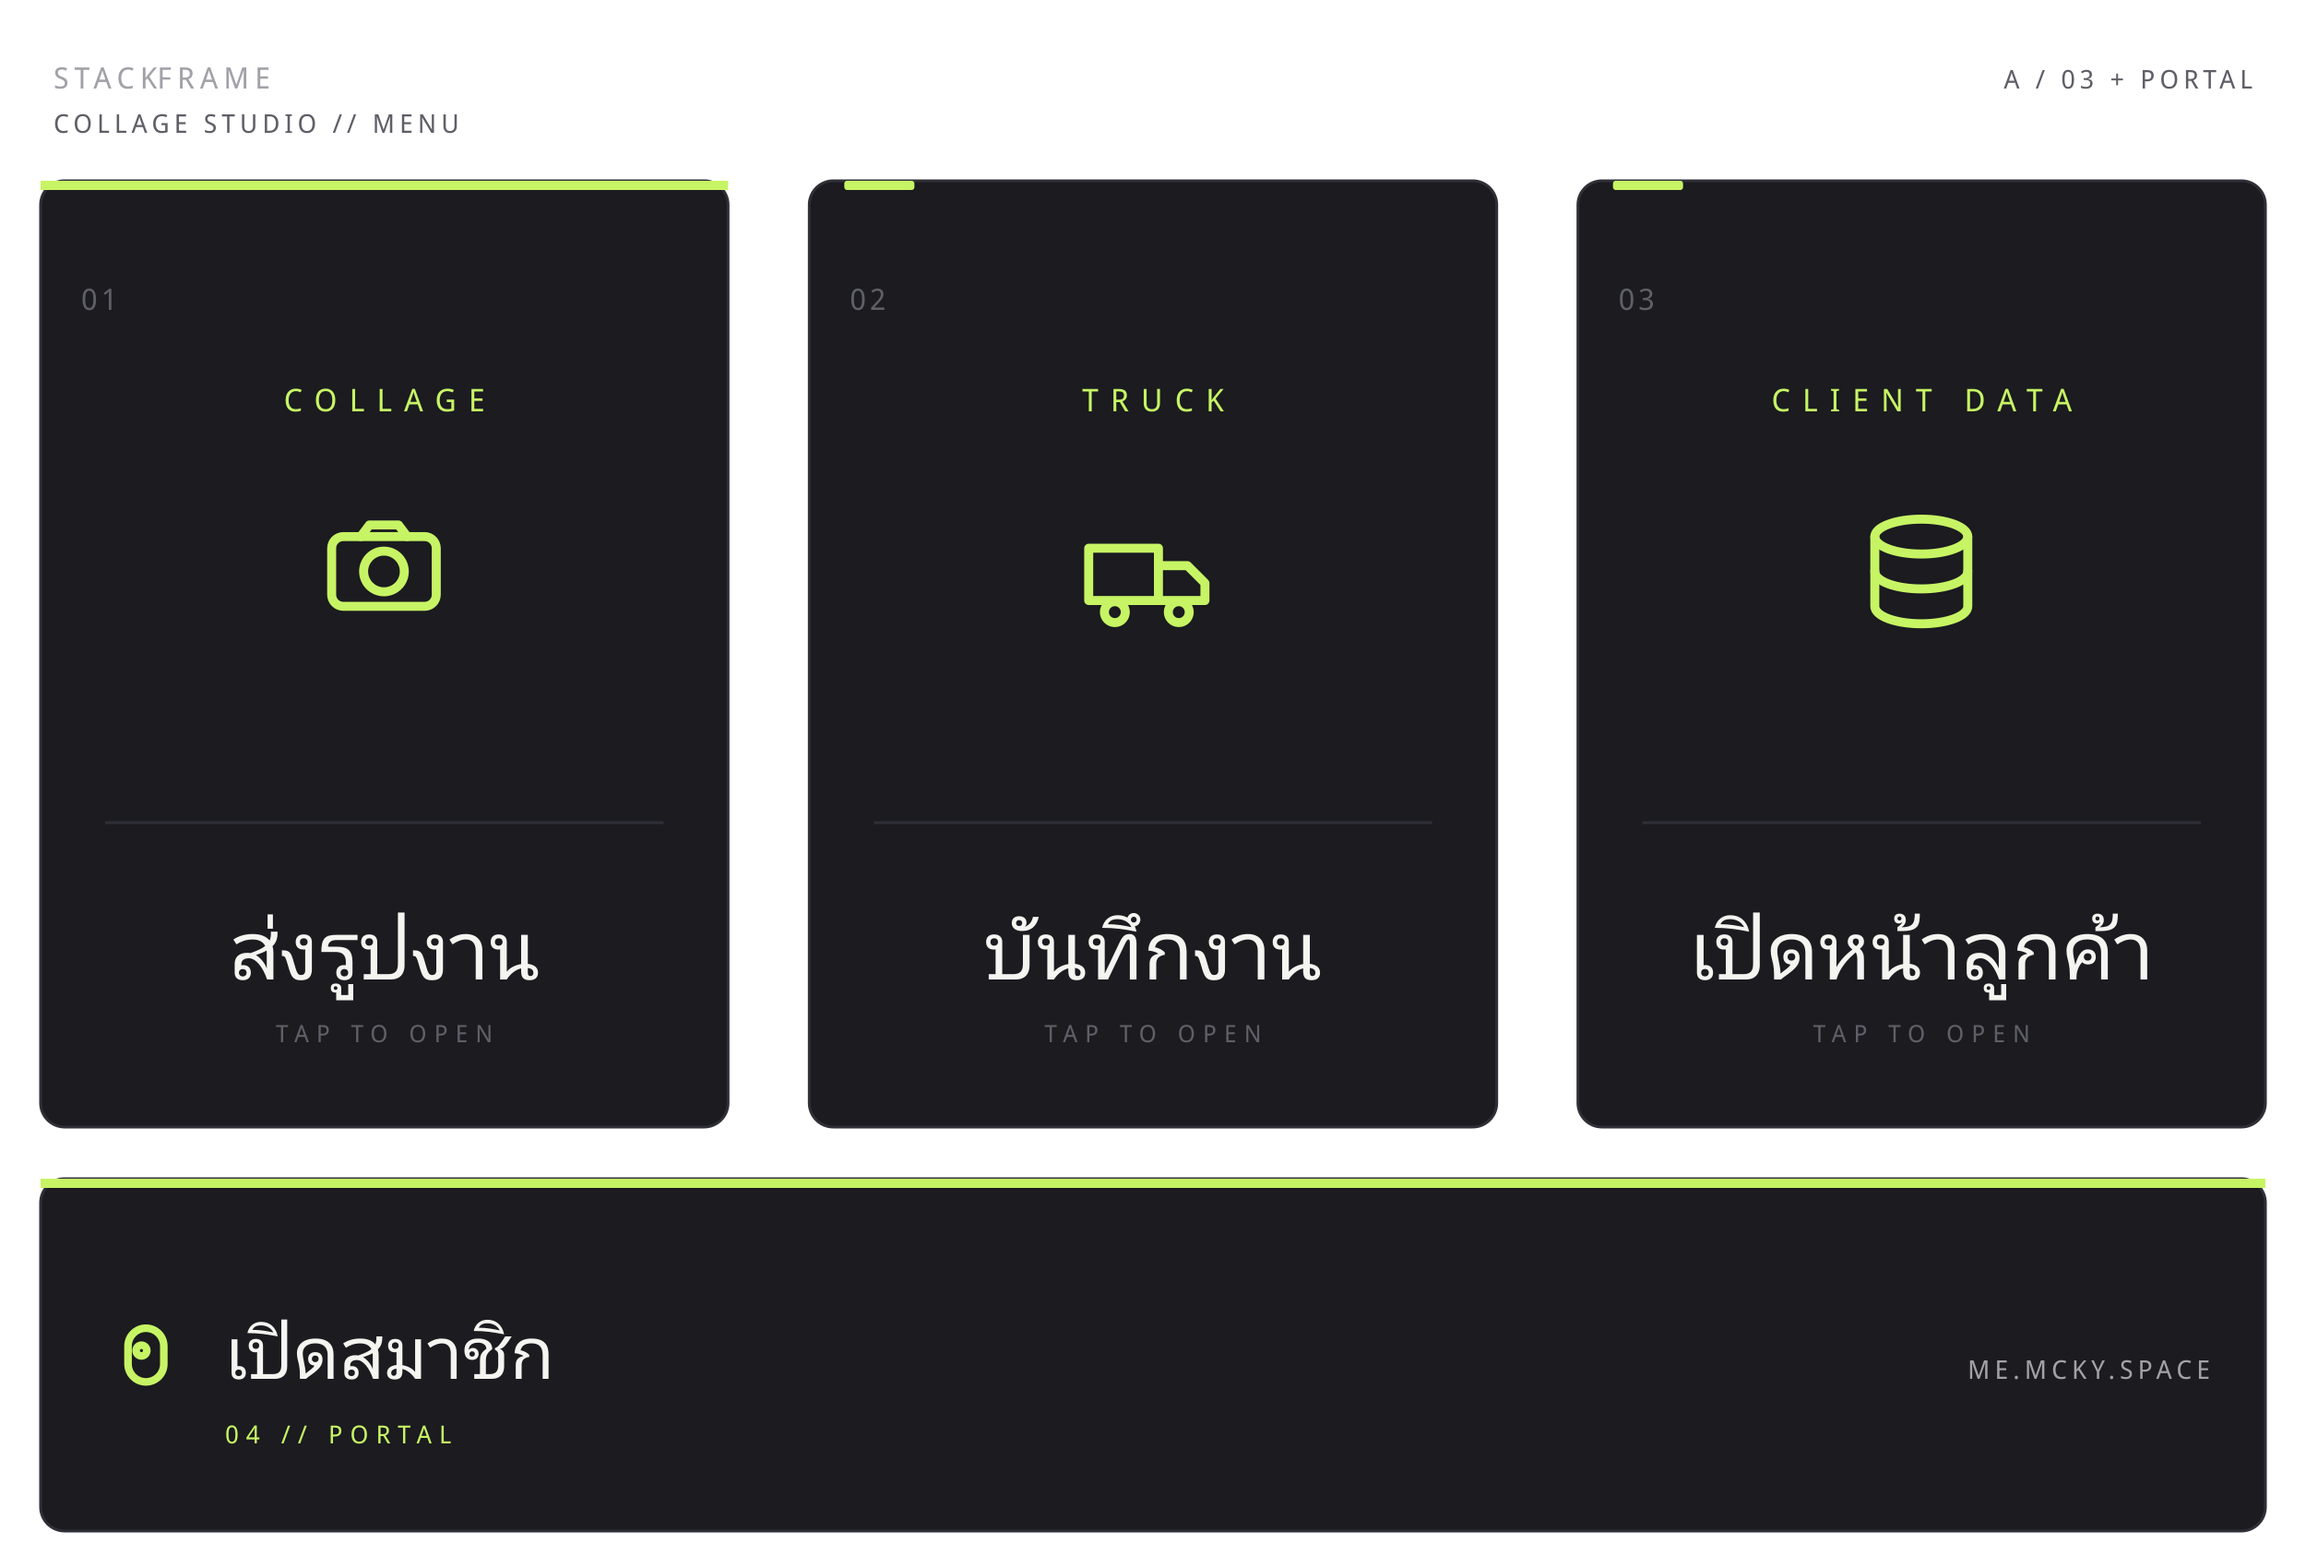
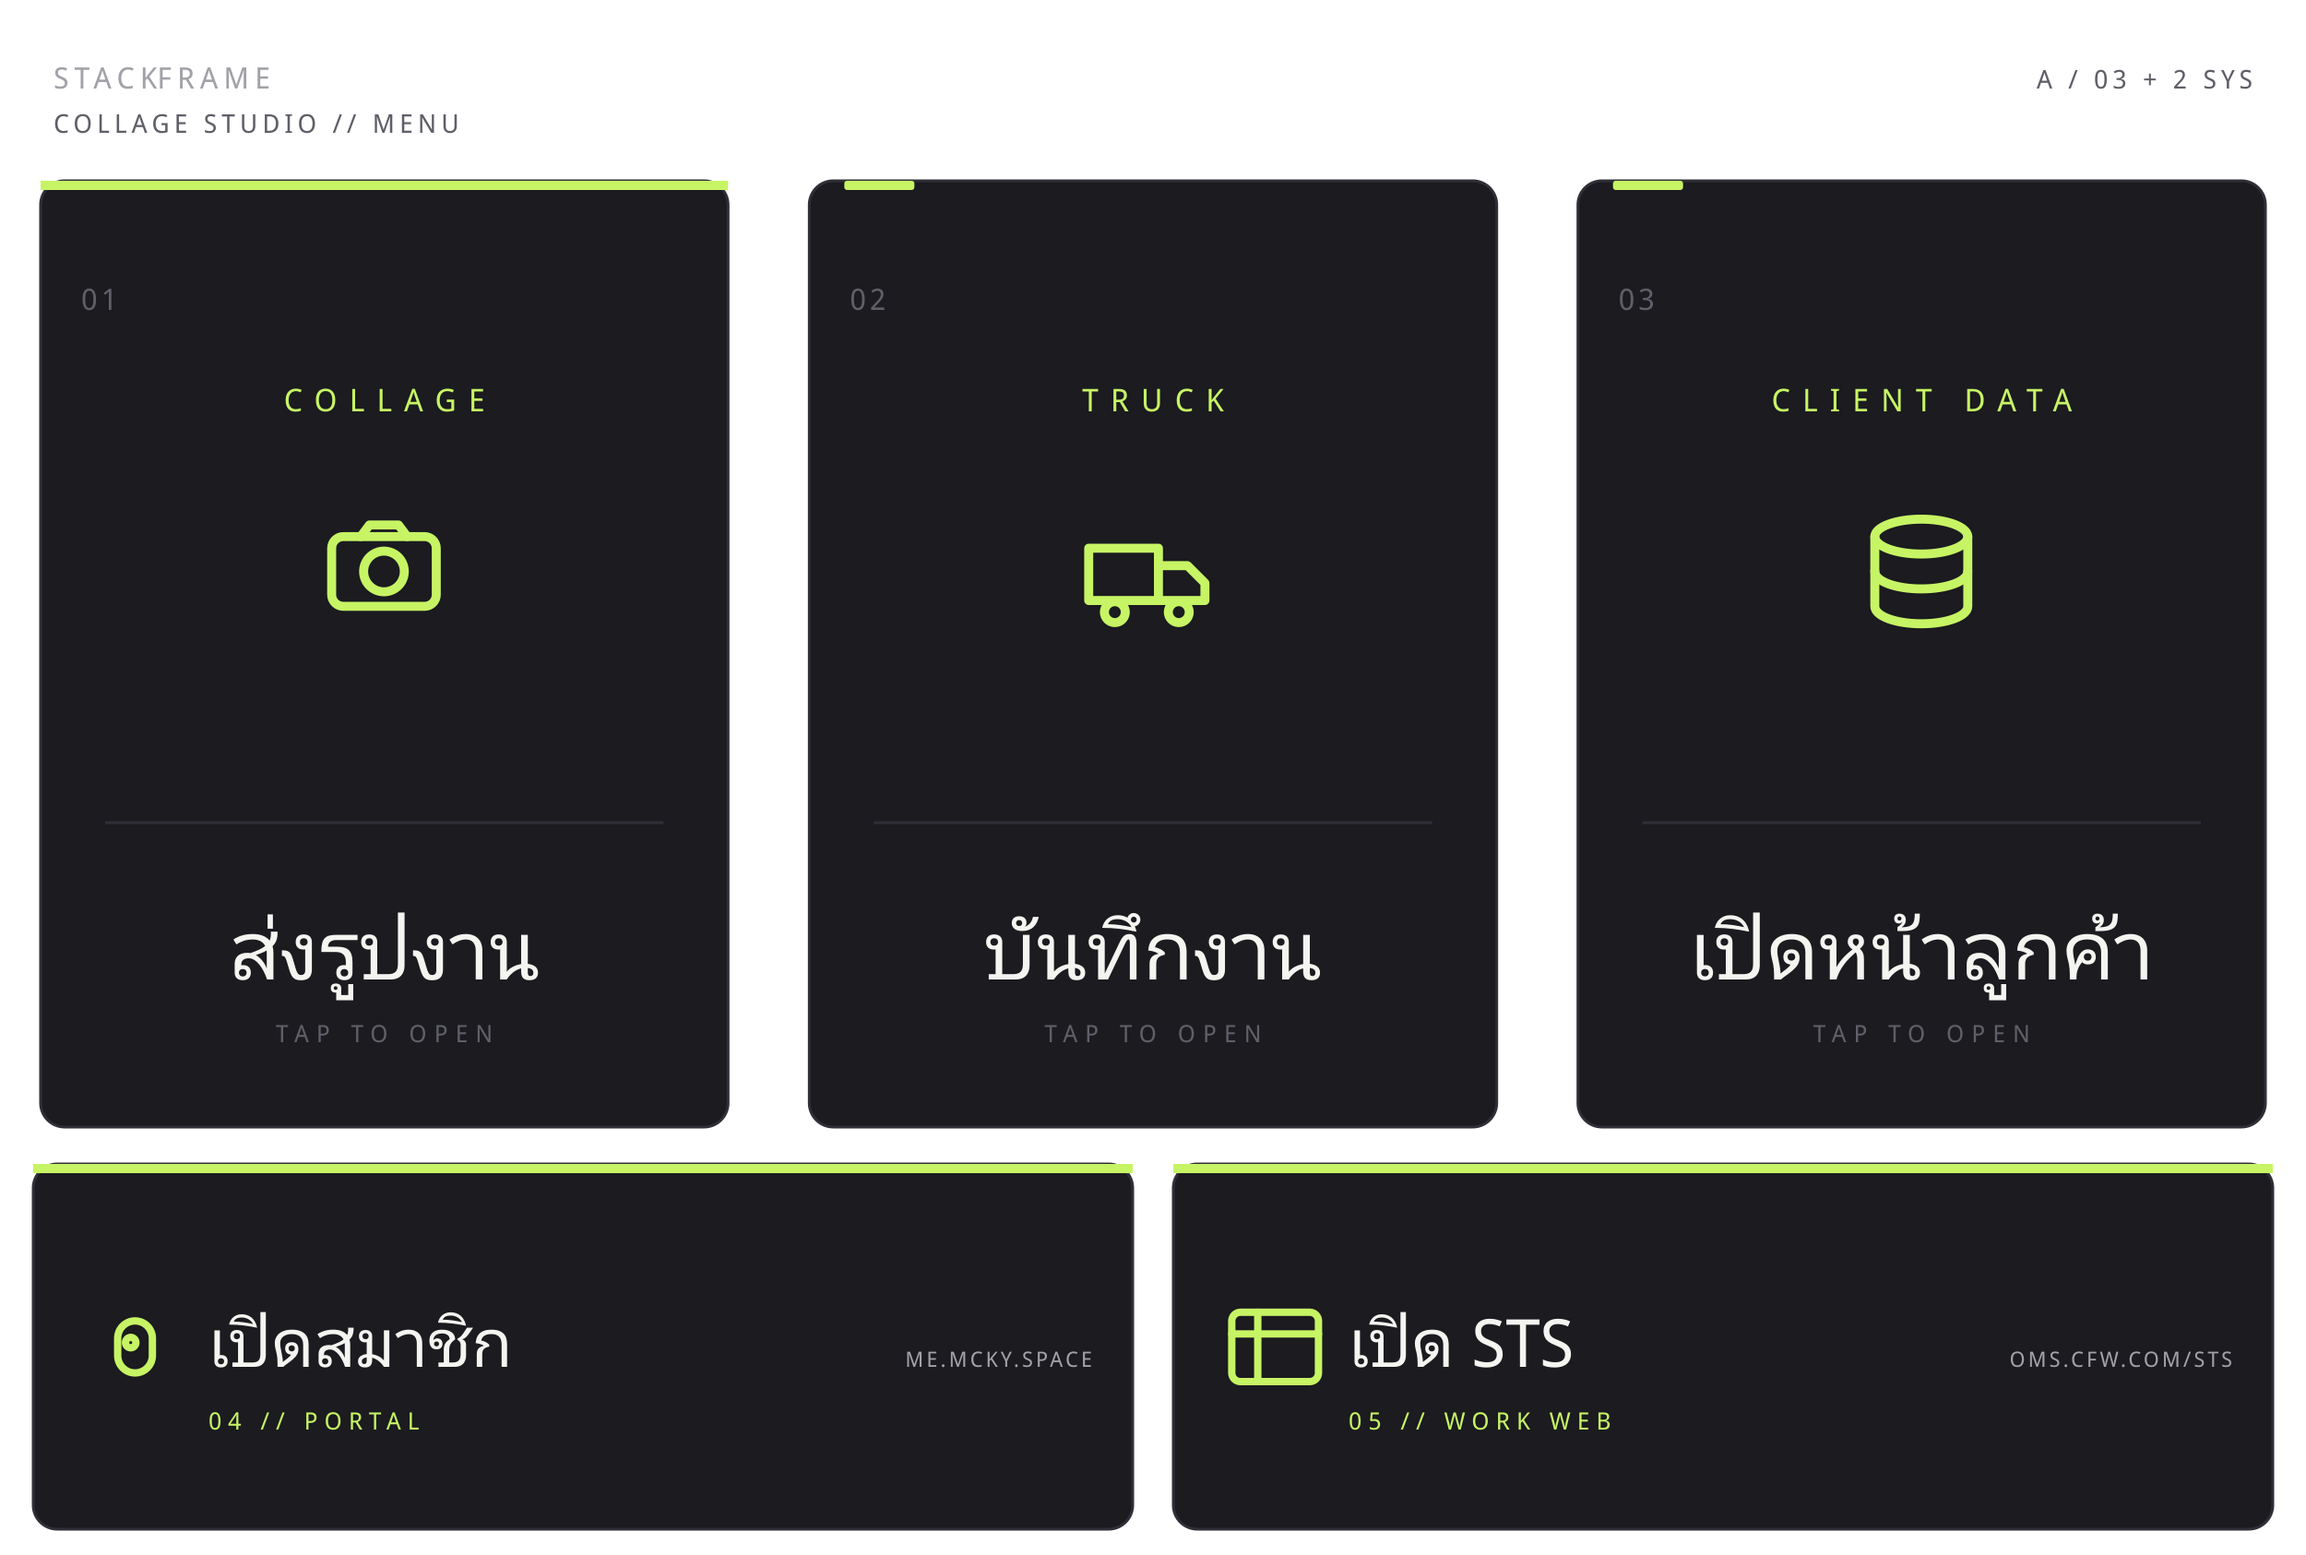
feat(richmenu): add 5th button STS -> oms.cfwenterprise.com/sts
Bottom bar splits into two half-width buttons: เปิดสมาชิก (me.mcky.space)
and เปิด STS (oms.cfwenterprise.com/sts). 5 tap areas, all designs updated.

Changed region(s): [[0.0, 0.7402, 0.9984, 0.987], [0.9048, 0.0308, 0.9672, 0.0617]]

diff --git a/frontend/previews/richmenu/index.html b/frontend/previews/richmenu/index.html
@@ -15,7 +15,7 @@
   footer code{background:#1e2129;padding:2px 6px;border-radius:6px}
 </style></head><body>
 <header><h1>Rich menu redesign · STACK<span style="color:var(--acc)">//</span>FRAME</h1>
-<p>4 concepts, 2500×1686. Tap areas identical in all: 3 ช่องบน (ส่งรูปงาน LIFF · บันทึกงาน truck · เปิดหน้าลูกค้า data) + แถบล่างเต็มความกว้าง (เปิดสมาชิก → me.mcky.space)</p></header>
+<p>4 concepts, 2500×1686. Tap areas identical in all: 3 ช่องบน (ส่งรูปงาน LIFF · บันทึกงาน truck · เปิดหน้าลูกค้า data) + แถบล่าง 2 ปุ่ม (เปิดสมาชิก → me.mcky.space · เปิด STS → oms.cfwenterprise.com/sts)</p></header>
 <div class="grid">
 <div class="card"><img src="a-studio-web.jpg" alt="STUDIO 03">
 <div class="meta"><b>STUDIO 03</b><span>WEB EDITION / LIME ON DARK</span></div>
